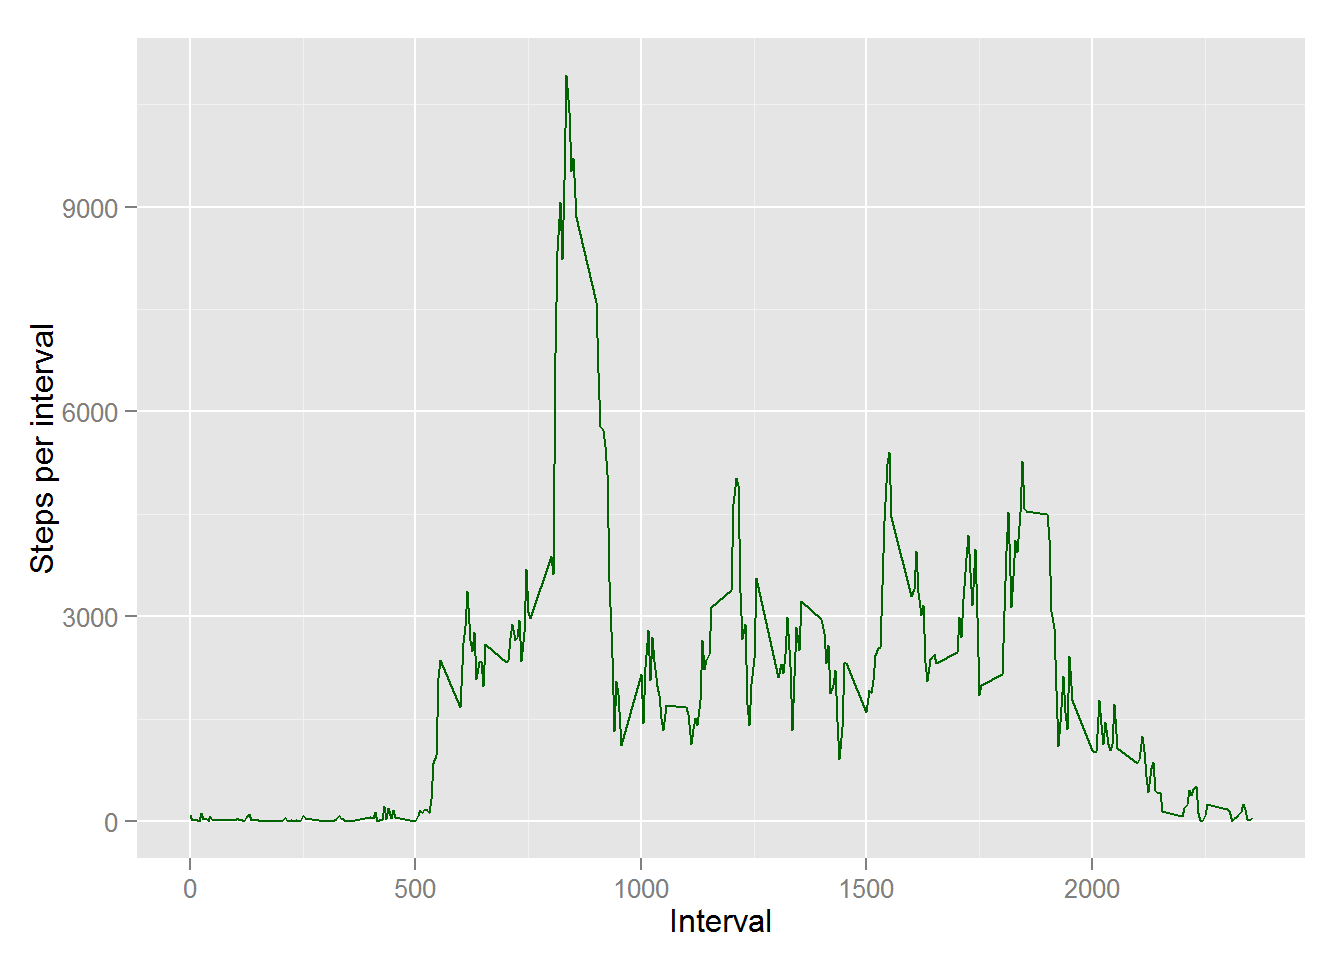
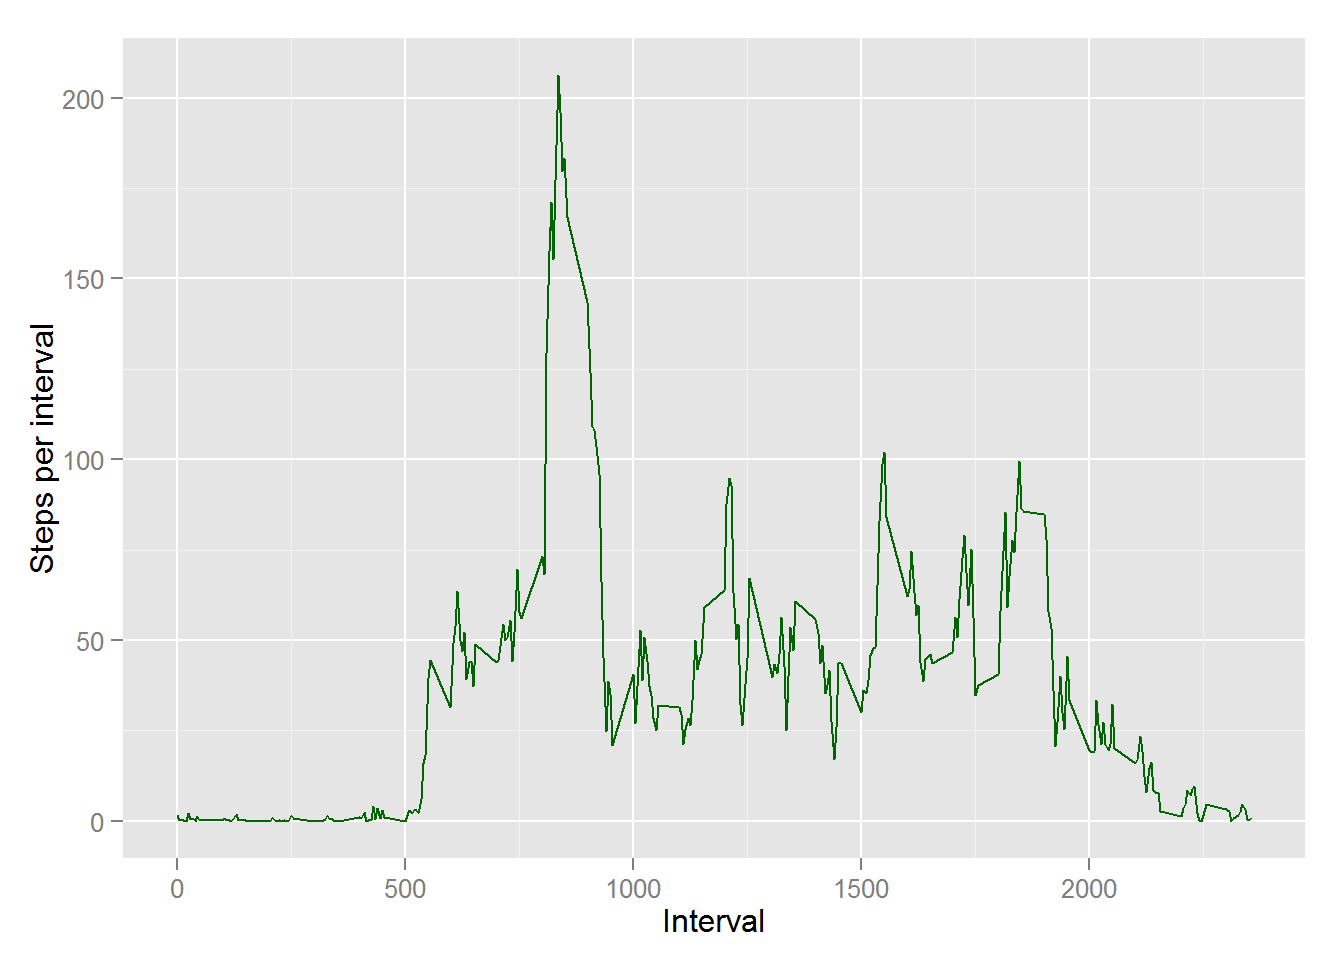
Change 2nd graf to show avarage instead of sum

diff --git a/PA1_template.html b/PA1_template.html
@@ -98,11 +98,11 @@ if (window.hljs && document.readyState && document.readyState === "complete") {
 </div>
 <div id="what-is-the-average-daily-activity-pattern" class="section level3">
 <h3>What is the average daily activity pattern?</h3>
-<pre class="r"><code>  q2 = aggregate(activity$steps ~ activity$interval,  FUN = sum)
+<pre class="r"><code>  q2 = aggregate(activity$steps ~ activity$interval,  FUN = mean)
   names(q2) = c('interval', 'steps')
   g = ggplot(q2, aes(interval, steps))
   g + geom_line(colour=&quot;darkgreen&quot;) + labs(y = &quot;Steps per interval&quot;, x = &quot;Interval&quot;)</code></pre>
[2 lines of base64/hex data omitted]
 <pre class="r"><code>  maxStepsInterval = q2$interval[which.max(q2$steps)]
   # calculate end of interval 
   if(maxStepsInterval %% 100 == 55) {

diff --git a/PA1_template.md b/PA1_template.md
@@ -66,7 +66,7 @@ Mean steps per day =  10766.19 while the median = 10765
 
 
 ```r
-  q2 = aggregate(activity$steps ~ activity$interval,  FUN = sum)
+  q2 = aggregate(activity$steps ~ activity$interval,  FUN = mean)
   names(q2) = c('interval', 'steps')
   g = ggplot(q2, aes(interval, steps))
   g + geom_line(colour="darkgreen") + labs(y = "Steps per interval", x = "Interval")
